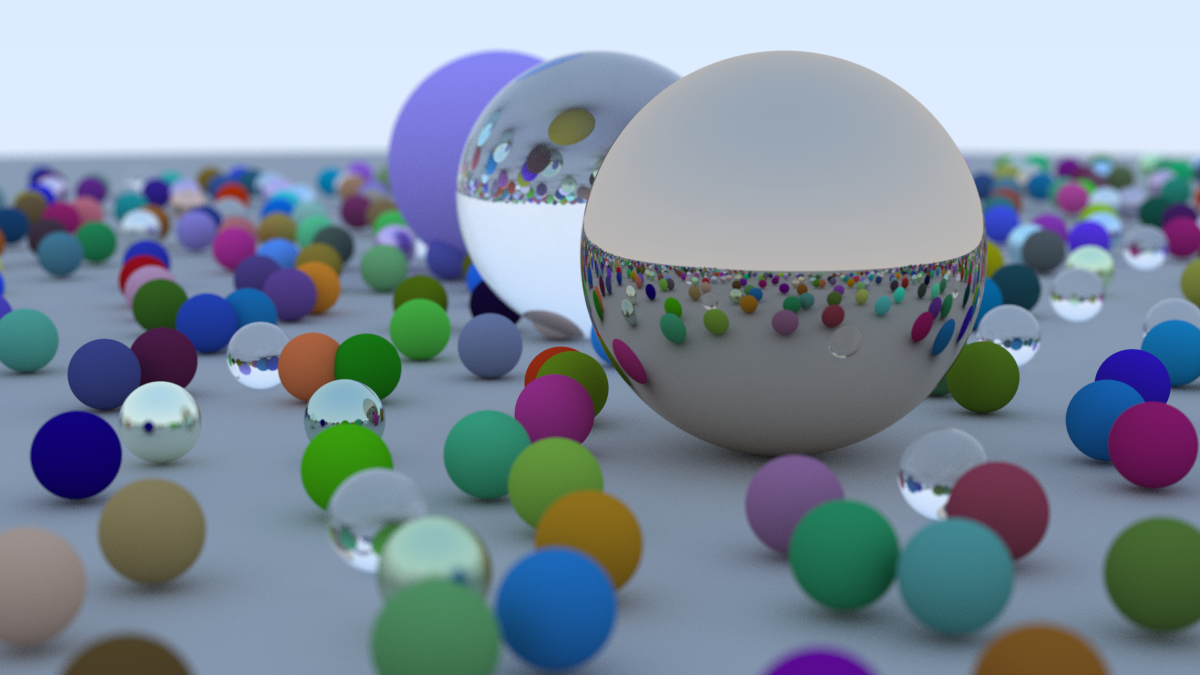
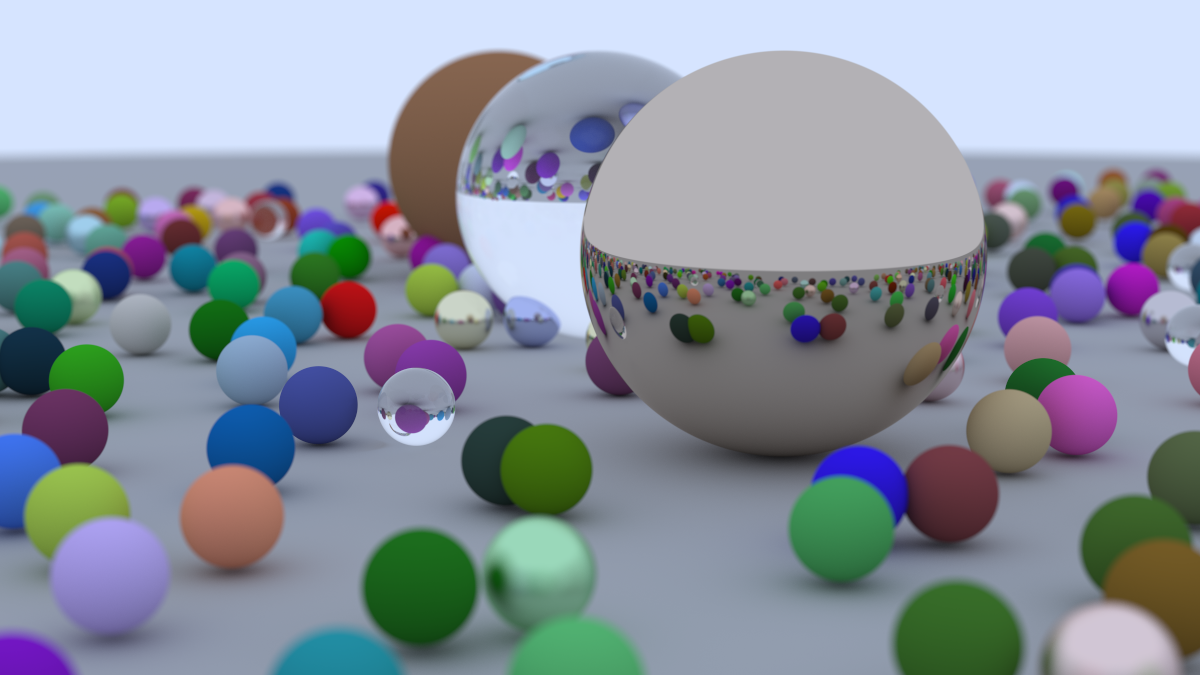
1200 10000 75

diff --git a/src/main.rs b/src/main.rs
@@ -19,16 +19,16 @@ fn main() {
     let (world, lights, camera) = match scene_name {
         "many_balls" => {
             println!("Loading Book 1 Final Scene (Random Spheres)...");
-            many_balls::build_many_balls(1200, 500, 50)
+            many_balls::build_many_balls(1200, 10000, 75)
         }
         "cornell_box" => {
             println!("Loading Book 3 Cornell Box (Glass Sphere)...");
-            cornell_box::build_cornell_box(600, 100, 50)
+            cornell_box::build_cornell_box(1200, 10000, 75)
         }
         "final_scene" => {
             println!("Loading Book 2 Final Scene...");
             // High resolution render settings from book
-            final_scene::build_final_scene(800, 1000, 50)
+            final_scene::build_final_scene(1200, 10000, 75)
         }
         _ => {
             eprintln!(

diff --git a/src/materials/lambertian.rs b/src/materials/lambertian.rs
@@ -37,6 +37,11 @@ impl Material for Lambertian {
         // Normalize direction before dot product
         let cos_theta = scattered.dir.normalize().dot(&isect.geometry_normal);
 
-        if cos_theta < 0.0 { 0.0 } else { cos_theta / PI }
+        // Filter out grazing angles which cause instability in PDF division
+        if cos_theta < 1e-3 {
+            0.0
+        } else {
+            cos_theta / PI
+        }
     }
 }

diff --git a/README.md b/README.md
@@ -250,6 +250,25 @@ Performance metrics on an 8-core CPU. The refactored architecture maintains the 
 | Final Scene | 800×800 | 5000 | ~45 minutes |
 | Many Balls | 1200×675 | 500 | ~30 seconds |
 
+16-core example:
+
+```bash
+Loading Book 2 Final Scene...
+Rendering 1200x1200 image with 10000 SPP...
+  [04:30:02] [########################################] 1440000/1440000 (0s)                                           Render complete in 16202.70s
+Image saved to final_scene.png
+
+Loading Book 3 Cornell Box (Glass Sphere)...
+Rendering 1200x1200 image with 10000 SPP...
+  [02:44:19] [########################################] 1440000/1440000 (0s)                                           Render complete in 9859.83s
+Image saved to cornell_box.png
+
+Loading Book 1 Final Scene (Random Spheres)...
+Rendering 1200x675 image with 10000 SPP...
+  [01:34:36] [########################################] 810000/810000 (0s)                                             Render complete in 5676.01s
+Image saved to many_balls.png
+```
+
 ## References
 
 - [Ray Tracing in One Weekend](https://raytracing.github.io/books/RayTracingInOneWeekend.html)
